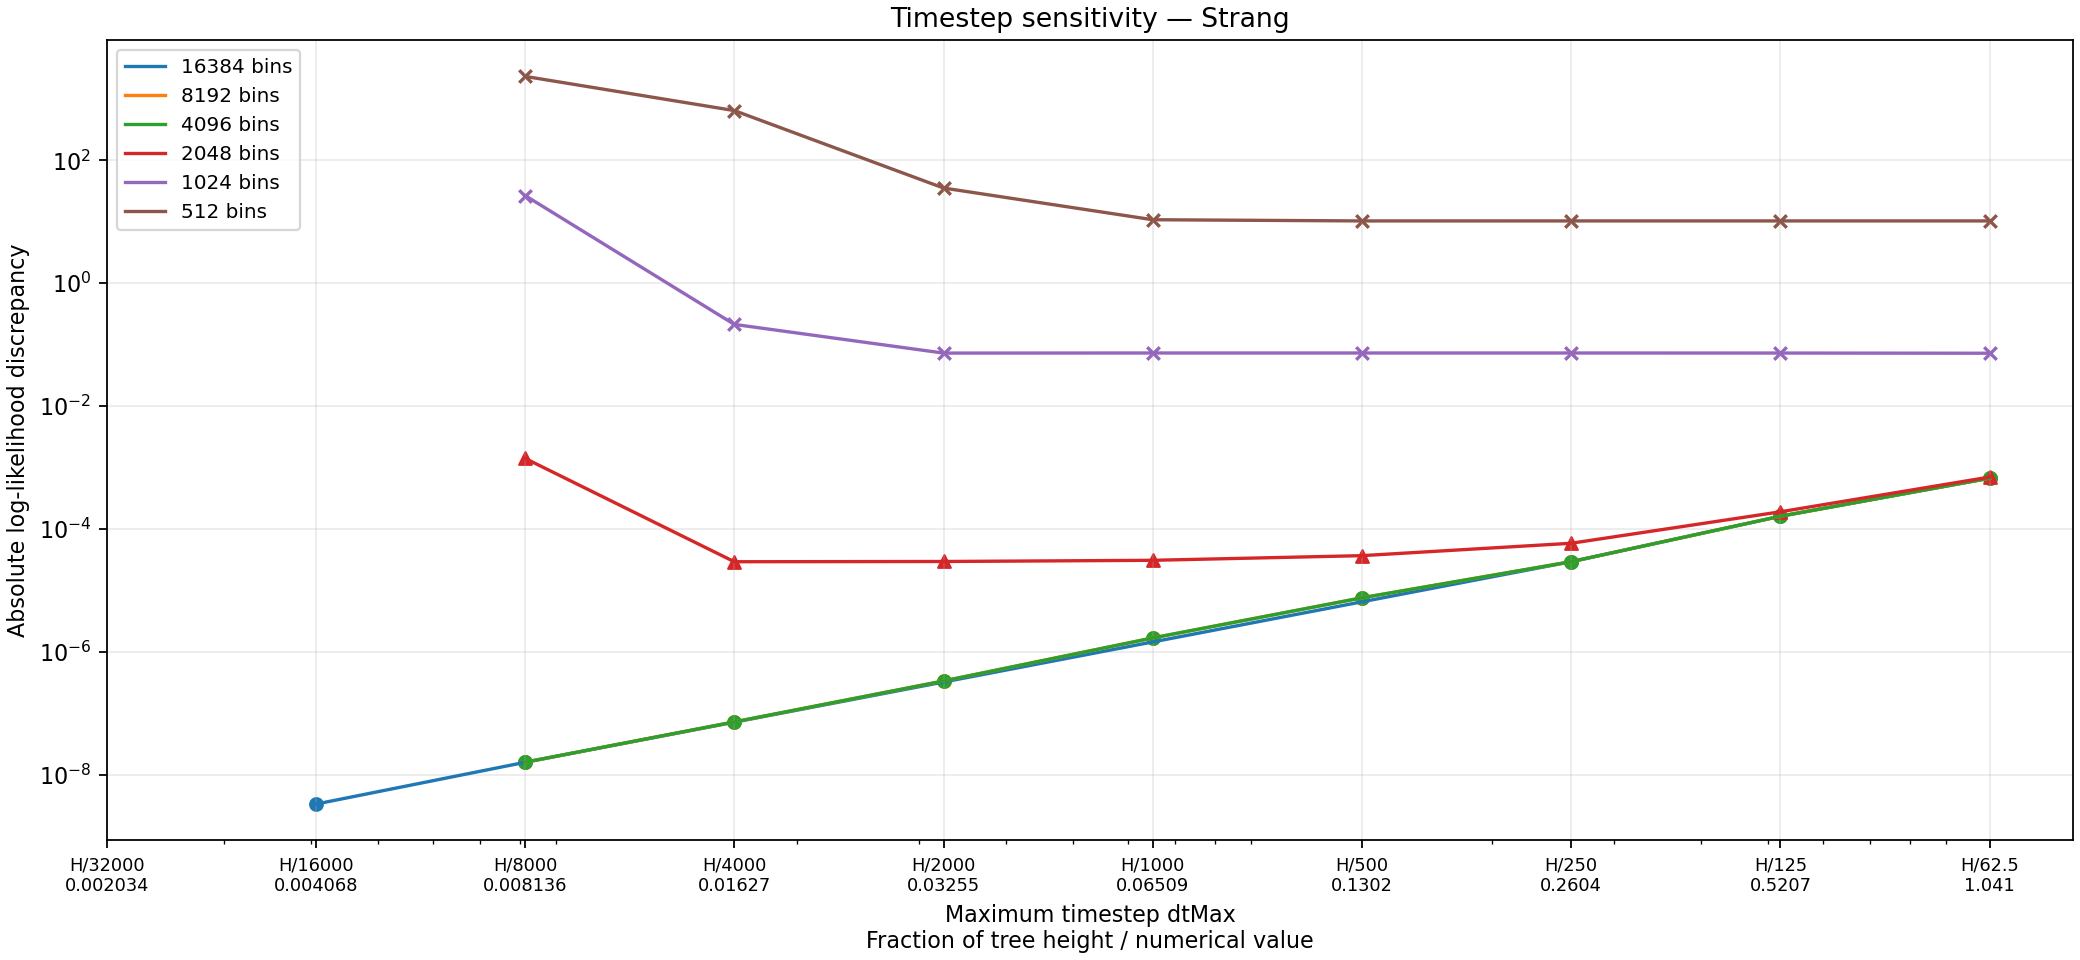
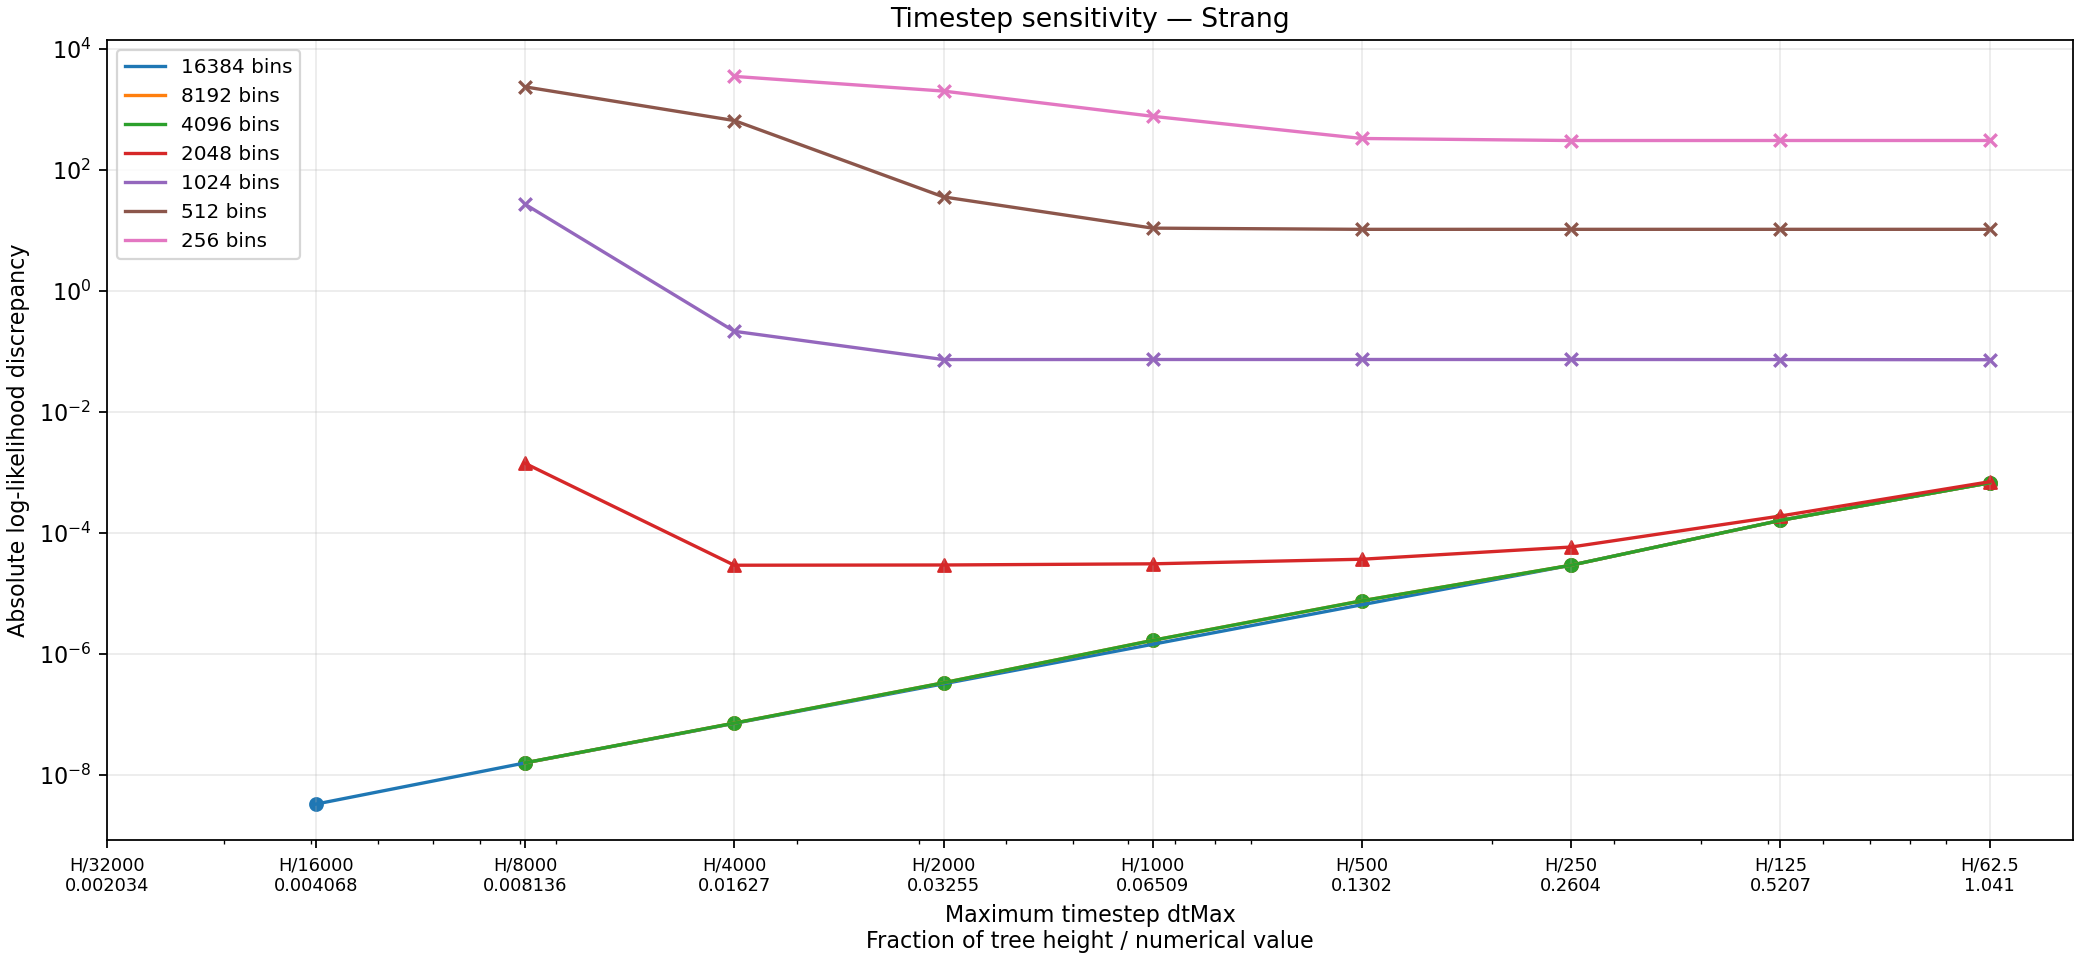
Add 256-bin likelihood results and update accuracy report

diff --git a/validation/likelihood_reference2/README.md b/validation/likelihood_reference2/README.md
@@ -2,7 +2,7 @@
 
 This study asks how much the **log likelihood** changes when we refine the spatial grid or shorten
 the integration timestep. It evaluates one fixed 233-species primate example, not an MCMC chain.
-All measurements were rerun together with the same padding rule.
+All measurements use the same padding rule.
 
 ## Main findings
 
@@ -18,6 +18,7 @@ Selected absolute log-likelihood discrepancies:
 
 | Uniform bins | H/62.5 | H/250 | H/8000 |
 | ---: | ---: | ---: | ---: |
+| 256 | 304.640 | 304.194 | nonfinite |
 | 512 | 10.3702 | 10.3697 | 2343.45 |
 | 1024 | 0.0725976 | 0.0732384 | 26.9014 |
 | 2048 | 0.000699255 | 0.0000583662 | 0.00140772 |
@@ -59,6 +60,7 @@ padding takes space out of that interval. Usable endpoints are recorded in the m
 
 | Uniform bins | Numerical Δx |
 | ---: | ---: |
+| 256 | 0.151609178 |
 | 512 | 0.075804589 |
 | 1024 | 0.037902295 |
 | 2048 | 0.018951147 |
@@ -84,6 +86,11 @@ At 1024 bins, much of the curve is a spatial-error plateau. Shortening the times
 does little to help. At the smallest timesteps, it makes the result markedly worse: the sampled
 diffusion kernel becomes too narrow relative to Δx to express its intended variance.
 The 2048-bin curve has a smaller plateau and also deteriorates at H/8000.
+
+At 256 bins, discrepancies are about 304 at the largest timesteps, rising to 3491 at H/4000.
+H/8000 produces a nonfinite likelihood and is recorded as a failure, not plotted as an error
+value. All eight settings have severely unresolved kernels: minimum variance retention is about
+4.2 × 10⁻²⁸, falling to 8.6 × 10⁻³⁷ at H/8000. Finite output here does not imply useful accuracy.
 
 A slightly lower absolute discrepancy at a larger timestep need not mean a more accurate
 time-integration method: errors from spatial and temporal approximations can cancel.
@@ -166,19 +173,21 @@ width are fixed across the main measurements. Padding is always sized for H/62.5
 standard deviations, even when the integration timestep is much smaller. Thus geometry does not
 change with dtMax within a given bin count.
 
-There are 54 main evaluations:
+There are 62 main evaluations:
 
-- Strang: 512, 1024, 2048, 4096 and 8192 bins, each at H/62.5 through H/8000 by successive halving.
+- Strang: 256, 512, 1024, 2048, 4096 and 8192 bins, each at H/62.5 through H/8000 by successive halving.
 - Strang: six settings at 16384 bins, listed above.
 - Original: 4096 bins at H/62.5 through H/8000.
 
 Two additional boundary checks use doubled Fourier width or ten-standard-deviation support.
 They are recorded in the same table but excluded from the main curves.
-All 56 evaluations completed successfully, with 464 branch-segment kernel requests each.
-Likelihood computation totaled 394.93 seconds; full subprocess time totaled 435.30 seconds
-(7.26 minutes), within one 15-minute budget.
+The original 56 evaluations completed successfully in 435.30 seconds including startup.
+Eight additional 256-bin evaluations took 4.67 seconds including startup (0.65 seconds of likelihood
+computation); seven returned finite likelihoods and one returned a nonfinite likelihood.
+All 64 traversed 464 branch-segment kernel requests. Earlier measurements and the reference
+are unchanged.
 
-At 512–2048 bins, diagnostic mode permits positive variance loss so that we can measure its
+At 256–2048 bins, diagnostic mode permits positive variance loss so that we can measure its
 consequences instead of discarding those likelihoods. Zero variance, invalid normalization and
 nonfinite kernels remain errors. Finer grids use the 99.9% guard. A completed diagnostic run
 does not imply an adequately resolved kernel. Counts refer to branch-segment kernel requests,
@@ -191,7 +200,9 @@ entire posterior distribution.
 ## Files and commands
 
 [measurements.tsv](measurements.tsv) is the only data table. Its first line is a JSON comment with
-the input/code hashes and run revision; the remaining lines are tab-separated measurements.
+the initial input/code hashes and run revision; the remaining lines are tab-separated measurements.
+The runner was subsequently extended to add 256 bins; input, Java driver and numerical binaries
+still match these hashes.
 Columns record settings, method, guard mode, log likelihood, computation time, actual timestep
 range, kernel variance diagnostics and usable grid geometry. Rows marked `kind=boundary` are
 the separate boundary checks. Figure discrepancies are computed directly from these likelihoods.
@@ -209,7 +220,8 @@ the release native library at `build/gcc-16/libsse_quasse.so`, and the verified 
 at `build/strang/baseline/libsse_quasse.so`. The latter is a local archive, not rebuilt by this runner.
 The runner compiles the experimental Java driver and keeps classes, input copies and execution
 logs under `build/likelihood-reference2/`. It runs serially with a 900-second budget, appends each
-completed result immediately, and skips settings already in the table on resume. Changed input
-or executable code requires preserving the old table before starting a fresh run.
+completed result immediately, and skips settings already in the table on resume. Runner changes
+to extend the matrix or adjust plots are allowed; changed input, Java driver or numerical binaries
+require preserving the old table before starting a fresh run.
 
 The previous `likelihood_reference/` archive is untouched and is not needed to generate these figures.
